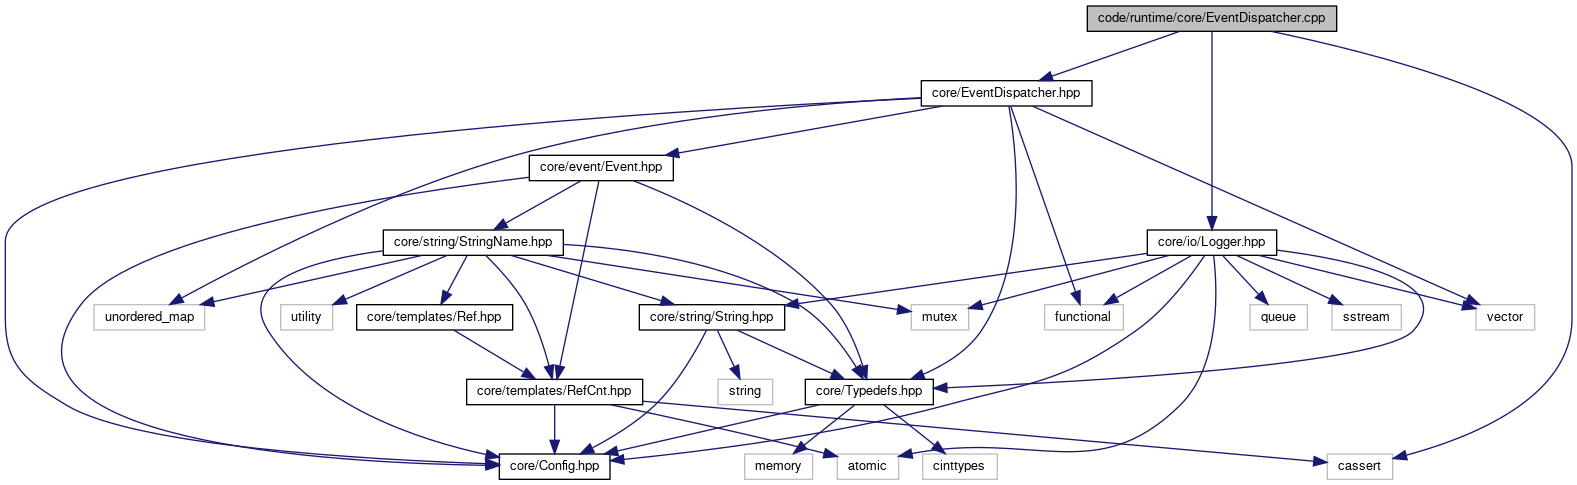
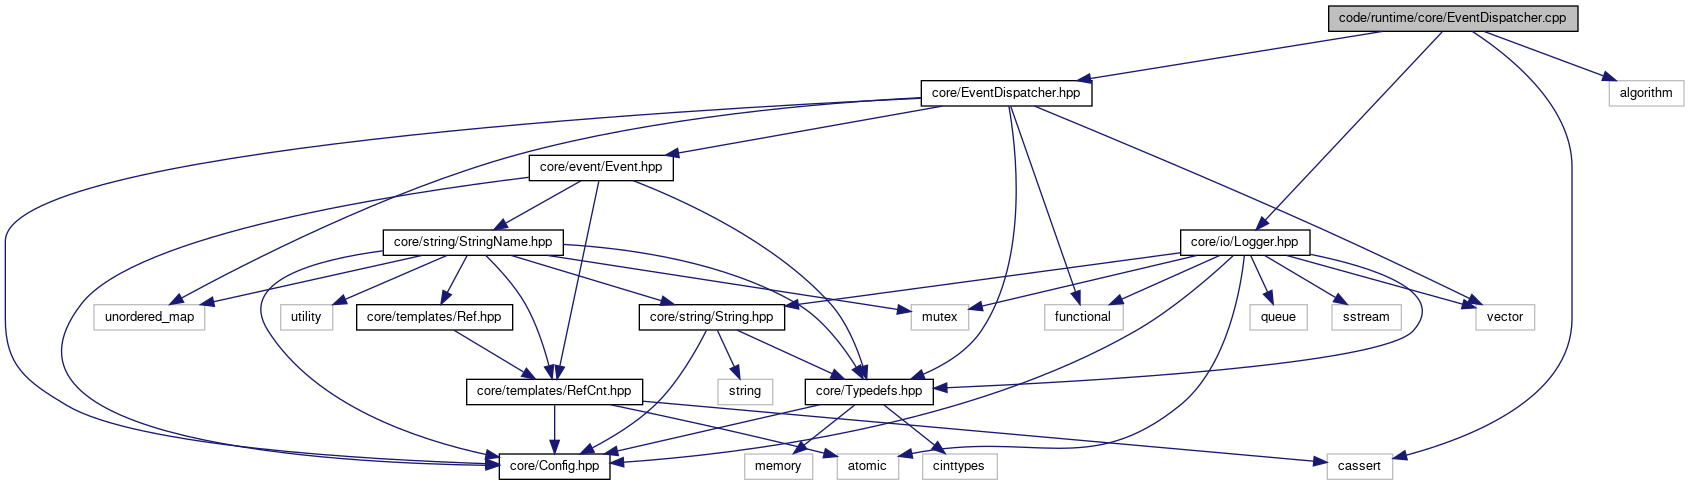
deploy: a592a098a9a8701090a307b326180a31789f04ba

diff --git a/EventDispatcher_8hpp_source.html b/EventDispatcher_8hpp_source.html
@@ -162,11 +162,11 @@ $(function() {
 <div class="ttc" id="aTypedefs_8hpp_html_a801d6a451a01953ef8cbae6feb6a3638"><div class="ttname"><a href="Typedefs_8hpp.html#a801d6a451a01953ef8cbae6feb6a3638">size_t</a></div><div class="ttdeci">std::size_t size_t</div><div class="ttdef"><b>Definition:</b> Typedefs.hpp:49</div></div>
 <div class="ttc" id="aclassEngine_html"><div class="ttname"><a href="classEngine.html">Engine</a></div><div class="ttdoc">Root manager class.</div><div class="ttdef"><b>Definition:</b> Engine.hpp:63</div></div>
 <div class="ttc" id="aclassEventDispatcher_html"><div class="ttname"><a href="classEventDispatcher.html">EventDispatcher</a></div><div class="ttdoc">Event dispatcher is responsible for managing engine events.</div><div class="ttdef"><b>Definition:</b> EventDispatcher.hpp:58</div></div>
-<div class="ttc" id="aclassEventDispatcher_html_a4c3e1d065ec62b2f0b219a2ffdb24ed0"><div class="ttname"><a href="classEventDispatcher.html#a4c3e1d065ec62b2f0b219a2ffdb24ed0">EventDispatcher::Unsubscribe</a></div><div class="ttdeci">BRK_API void Unsubscribe(Handle handle)</div><div class="ttdoc">Unsubscribe listener associated with specified handle.</div><div class="ttdef"><b>Definition:</b> EventDispatcher.cpp:58</div></div>
-<div class="ttc" id="aclassEventDispatcher_html_a4caa9c924d29a7889480c757b4b6d10c"><div class="ttname"><a href="classEventDispatcher.html#a4caa9c924d29a7889480c757b4b6d10c">EventDispatcher::Resume</a></div><div class="ttdeci">BRK_API void Resume(Handle handle)</div><div class="ttdoc">Resume listening for events of specified listener by handle.</div><div class="ttdef"><b>Definition:</b> EventDispatcher.cpp:82</div></div>
-<div class="ttc" id="aclassEventDispatcher_html_a4f65f5bd7ad34b746ba41e3883f9bf8e"><div class="ttname"><a href="classEventDispatcher.html#a4f65f5bd7ad34b746ba41e3883f9bf8e">EventDispatcher::Pause</a></div><div class="ttdeci">BRK_API void Pause(Handle handle)</div><div class="ttdoc">Pause listening for events of specified listener by handle.</div><div class="ttdef"><b>Definition:</b> EventDispatcher.cpp:62</div></div>
-<div class="ttc" id="aclassEventDispatcher_html_aa713f4d8cc8180762fb226a7de13d669"><div class="ttname"><a href="classEventDispatcher.html#aa713f4d8cc8180762fb226a7de13d669">EventDispatcher::Dispatch</a></div><div class="ttdeci">BRK_API void Dispatch(const Ref&lt; Event &gt; &amp;event)</div><div class="ttdoc">Dispatch new event to listeners.</div><div class="ttdef"><b>Definition:</b> EventDispatcher.cpp:35</div></div>
-<div class="ttc" id="aclassEventDispatcher_html_acc6b5a7c4cdb933144b950a22cfbec64"><div class="ttname"><a href="classEventDispatcher.html#acc6b5a7c4cdb933144b950a22cfbec64">EventDispatcher::Subscribe</a></div><div class="ttdeci">BRK_API Handle Subscribe(const EventType &amp;eventType, ListenerFunc func, bool paused=false)</div><div class="ttdoc">Subscribe listener function to specified event type.</div><div class="ttdef"><b>Definition:</b> EventDispatcher.cpp:44</div></div>
+<div class="ttc" id="aclassEventDispatcher_html_a4c3e1d065ec62b2f0b219a2ffdb24ed0"><div class="ttname"><a href="classEventDispatcher.html#a4c3e1d065ec62b2f0b219a2ffdb24ed0">EventDispatcher::Unsubscribe</a></div><div class="ttdeci">BRK_API void Unsubscribe(Handle handle)</div><div class="ttdoc">Unsubscribe listener associated with specified handle.</div><div class="ttdef"><b>Definition:</b> EventDispatcher.cpp:59</div></div>
+<div class="ttc" id="aclassEventDispatcher_html_a4caa9c924d29a7889480c757b4b6d10c"><div class="ttname"><a href="classEventDispatcher.html#a4caa9c924d29a7889480c757b4b6d10c">EventDispatcher::Resume</a></div><div class="ttdeci">BRK_API void Resume(Handle handle)</div><div class="ttdoc">Resume listening for events of specified listener by handle.</div><div class="ttdef"><b>Definition:</b> EventDispatcher.cpp:83</div></div>
+<div class="ttc" id="aclassEventDispatcher_html_a4f65f5bd7ad34b746ba41e3883f9bf8e"><div class="ttname"><a href="classEventDispatcher.html#a4f65f5bd7ad34b746ba41e3883f9bf8e">EventDispatcher::Pause</a></div><div class="ttdeci">BRK_API void Pause(Handle handle)</div><div class="ttdoc">Pause listening for events of specified listener by handle.</div><div class="ttdef"><b>Definition:</b> EventDispatcher.cpp:63</div></div>
+<div class="ttc" id="aclassEventDispatcher_html_aa713f4d8cc8180762fb226a7de13d669"><div class="ttname"><a href="classEventDispatcher.html#aa713f4d8cc8180762fb226a7de13d669">EventDispatcher::Dispatch</a></div><div class="ttdeci">BRK_API void Dispatch(const Ref&lt; Event &gt; &amp;event)</div><div class="ttdoc">Dispatch new event to listeners.</div><div class="ttdef"><b>Definition:</b> EventDispatcher.cpp:36</div></div>
+<div class="ttc" id="aclassEventDispatcher_html_acc6b5a7c4cdb933144b950a22cfbec64"><div class="ttname"><a href="classEventDispatcher.html#acc6b5a7c4cdb933144b950a22cfbec64">EventDispatcher::Subscribe</a></div><div class="ttdeci">BRK_API Handle Subscribe(const EventType &amp;eventType, ListenerFunc func, bool paused=false)</div><div class="ttdoc">Subscribe listener function to specified event type.</div><div class="ttdef"><b>Definition:</b> EventDispatcher.cpp:45</div></div>
 <div class="ttc" id="aclassEventDispatcher_html_ad8bf7c8a4bf06f012deeb8b412c198d3"><div class="ttname"><a href="classEventDispatcher.html#ad8bf7c8a4bf06f012deeb8b412c198d3">EventDispatcher::Handle</a></div><div class="ttdeci">size_t Handle</div><div class="ttdef"><b>Definition:</b> EventDispatcher.hpp:63</div></div>
 <div class="ttc" id="aclassEventDispatcher_html_af45266448a991b0fe436290faef59503"><div class="ttname"><a href="classEventDispatcher.html#af45266448a991b0fe436290faef59503">EventDispatcher::ListenerFunc</a></div><div class="ttdeci">std::function&lt; bool(const Event &amp;)&gt; ListenerFunc</div><div class="ttdef"><b>Definition:</b> EventDispatcher.hpp:61</div></div>
 <div class="ttc" id="aclassEventType_html"><div class="ttname"><a href="classEventType.html">EventType</a></div><div class="ttdoc">StringName based event type.</div></div>

diff --git a/EventDispatcher_8cpp.html b/EventDispatcher_8cpp.html
@@ -71,16 +71,18 @@ $(function() {
 <div class="contents">
 <div class="textblock"><code>#include &lt;<a class="el" href="EventDispatcher_8hpp_source.html">core/EventDispatcher.hpp</a>&gt;</code><br />
 <code>#include &lt;<a class="el" href="Logger_8hpp_source.html">core/io/Logger.hpp</a>&gt;</code><br />
+<code>#include &lt;algorithm&gt;</code><br />
 <code>#include &lt;cassert&gt;</code><br />
 </div><div class="textblock"><div class="dynheader">
 Include dependency graph for EventDispatcher.cpp:</div>
 <div class="dyncontent">
 <div class="center"><img src="EventDispatcher_8cpp__incl.png" border="0" usemap="#acode_2runtime_2core_2EventDispatcher_8cpp" alt=""/></div>
 <map name="acode_2runtime_2core_2EventDispatcher_8cpp" id="acode_2runtime_2core_2EventDispatcher_8cpp">
-<area shape="rect" title=" " alt="" coords="1087,5,1337,32"/>
+<area shape="rect" title=" " alt="" coords="1329,5,1578,32"/>
 <area shape="rect" href="EventDispatcher_8hpp.html" title=" " alt="" coords="921,80,1092,107"/>
 <area shape="rect" title=" " alt="" coords="1327,453,1393,480"/>
-<area shape="rect" href="Logger_8hpp.html" title=" " alt="" coords="1147,229,1277,256"/>
+<area shape="rect" href="Logger_8hpp.html" title=" " alt="" coords="1181,229,1310,256"/>
+<area shape="rect" title=" " alt="" coords="1609,80,1684,107"/>
 <area shape="rect" href="Config_8hpp.html" title=" " alt="" coords="499,453,610,480"/>
 <area shape="rect" href="Typedefs_8hpp.html" title=" " alt="" coords="805,379,933,405"/>
 <area shape="rect" href="Event_8hpp.html" title=" " alt="" coords="529,155,673,181"/>
